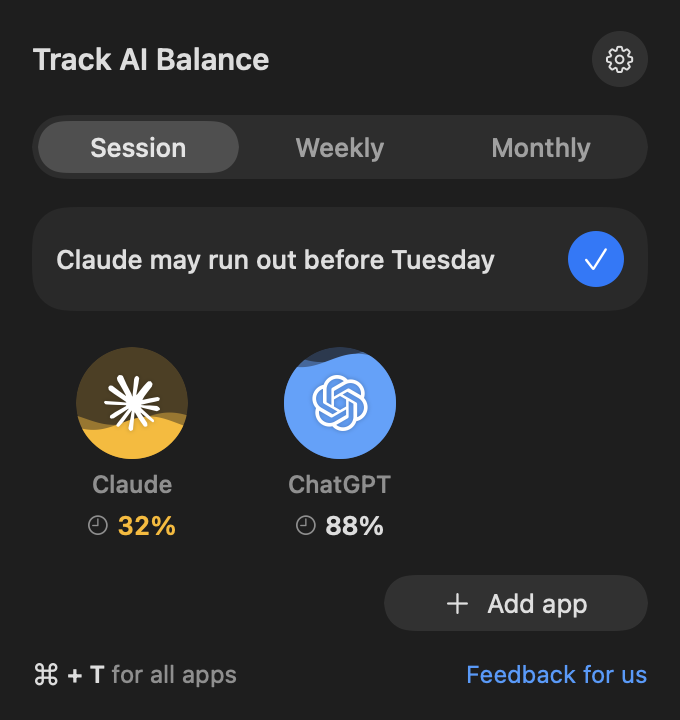
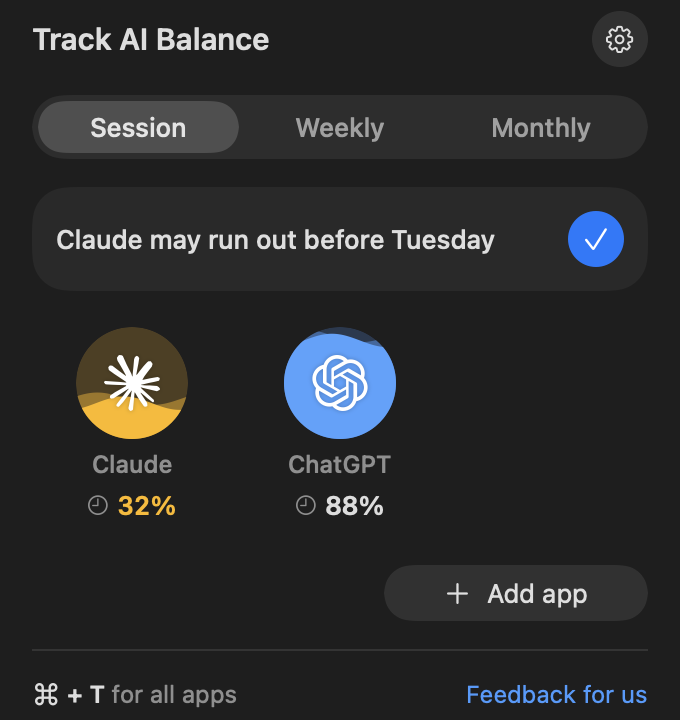
Design polish, version 0.2.4
A line check by Connected, a bigger plug on Connect buttons, double
chevrons between the alert states, a round Grok Bot mark, a quiet line
above the popover footer, and the Settings buttons back in the right
corner. The popover shows up to 9 apps in 3 rows before it scrolls, and
the third row is no longer cut off.

diff --git a/Sources/Tab/PopoverView.swift b/Sources/Tab/PopoverView.swift
@@ -98,7 +98,11 @@ struct PopoverView: View {
     /// Rows of tiles shown. Sized for the fullest tab, so switching tabs never resizes the popover
     /// (AK: a resize mid-switch made the title and tabs flicker). Past three rows, it scrolls.
     private var gridRows: Int { min(3, (max(store.mostTabApps, 1) + 2) / 3) }
-    static let rowHeight: CGFloat = 104
+    /// One row of tiles: circle, name and percent, plus the gap to the next row. Up to nine apps
+    /// show at once with no scrolling (AK, 2026-11-09); past that the grid scrolls, with a sliver
+    /// of the fourth row showing so it's clear there is more.
+    static let rowHeight: CGFloat = 109
+    private var gridHeight: CGFloat { CGFloat(gridRows) * Self.rowHeight + (store.mostTabApps > 9 ? 28 : 0) }
 
     private var main: some View {
         VStack(spacing: 14) {
@@ -138,7 +142,7 @@ struct PopoverView: View {
                         .font(.callout).foregroundStyle(Palette.subtitle)
                 }
                 .frame(maxWidth: .infinity)
-                .frame(height: CGFloat(gridRows) * Self.rowHeight)
+                .frame(height: gridHeight)
             } else {
                 Group {
                     if store.tabApps.count > 9 {
@@ -147,7 +151,7 @@ struct PopoverView: View {
                         grid
                     }
                 }
-                .frame(height: CGFloat(gridRows) * Self.rowHeight, alignment: .top)
+                .frame(height: gridHeight, alignment: .top)
                 // A tab that lists other apps swaps the whole grid at once (AK).
                 .id(store.tabApps)
                 .transition(.identity)
@@ -161,6 +165,9 @@ struct PopoverView: View {
                     .background(GeometryReader { g in Color.clear.onAppear { addFrame = g.frame(in: .named("popover")) }
                         .onChange(of: g.frame(in: .named("popover"))) { addFrame = $0 } })
             }
+
+            // A quiet line above the footer (AK, 2026-11-09), in the system separator color.
+            Divider()
 
             HStack {
                 ShortcutHint(before: "", after: "for all apps")

diff --git a/Sources/Tab/BrandLogos.swift b/Sources/Tab/BrandLogos.swift
@@ -81,19 +81,14 @@ extension BrandLogos {
         return whiteMark(art, size: fit(art.size, in: NSRect(x: 0, y: 0, width: 96, height: 96)).size)
     }
 
-    /// Grok Bot publishes no one-color logo, so this redraws its app icon as a white mark
-    /// (AK, 2026-11-09: the old round face didn't look like it). Measured from the icon: the
-    /// head is a big circle whose top edge arcs across the upper third, cut off by the icon's
-    /// rounded square, with two eyes tilted 55 degrees, right of center, the left one lower and
-    /// thicker. The eyes are cut out, like the other marks. Units are shares of the icon (y down).
+    /// Grok Bot publishes no one-color logo, so this draws one as a white mark: a round face
+    /// (AK, 2026-11-09: overall circular) with the two eyes placed as on its app icon, tilted
+    /// 55 degrees, right of center, the left one lower and thicker. The eyes are cut out, like
+    /// the other marks. Units are shares of the mark (y down).
     private static func grokBotMark() -> NSImage {
         let s: CGFloat = 96
         return NSImage(size: NSSize(width: s, height: s), flipped: true) { _ in
-            let tile = NSBezierPath(roundedRect: NSRect(x: 0, y: 0, width: s, height: s),
-                                    xRadius: s * Radius.tile, yRadius: s * Radius.tile)
-            tile.addClip()
-            let r = 0.574 * s
-            let head = NSBezierPath(ovalIn: NSRect(x: 0.423 * s - r, y: 0.749 * s - r, width: 2 * r, height: 2 * r))
+            let head = NSBezierPath(ovalIn: NSRect(x: 0, y: 0, width: s, height: s))
             head.windingRule = .evenOdd
             // Center x, center y, length and width of each eye.
             for (x, y, l, w) in [(0.484, 0.557, 0.34, 0.16), (0.747, 0.428, 0.31, 0.112)] as [(CGFloat, CGFloat, CGFloat, CGFloat)] {

diff --git a/Sources/Tab/Components.swift b/Sources/Tab/Components.swift
@@ -473,8 +473,10 @@ struct ConnectButton: View {
                 Text("Connect \(name)")
             } icon: {
                 PlugGlyph()
-                    .stroke(Palette.connectGlyph, style: StrokeStyle(lineWidth: 1.3, lineCap: .round, lineJoin: .round))
-                    .frame(width: 15, height: 15)
+                    // 17pt (AK, 2026-11-09: a touch bigger). The circle stays 28pt, since the
+                    // label box is fixed at 16pt and the plug just reaches past it.
+                    .stroke(Palette.connectGlyph, style: StrokeStyle(lineWidth: 1.4, lineCap: .round, lineJoin: .round))
+                    .frame(width: 17, height: 17)
                     .rotationEffect(.degrees(45))
             }
         }
@@ -494,9 +496,9 @@ func statusText(_ s: String) -> Text {
     return connectedLabel(word) + Text(String(s.dropFirst(word.count)))
 }
 
-/// "Connected" (or "2 accounts") with a small check before it, both in the brighter gray (AK).
+/// "Connected" (or "2 accounts") with a small line check before it (AK: a line icon, not filled), both in the brighter gray.
 func connectedLabel(_ word: String) -> Text {
-    (Text(Image(systemName: "checkmark.circle.fill")).font(.caption2) + Text(" " + word))
+    (Text(Image(systemName: "checkmark")).font(.caption2.weight(.medium)) + Text(" " + word))
         .foregroundColor(Palette.connectedText)
 }
 

diff --git a/Sources/Tab/SelfTest.swift b/Sources/Tab/SelfTest.swift
@@ -591,6 +591,14 @@ enum SelfTest {
         let greenShot = Store.preview(apps: ["claude": 62, "codex": 80, "cursor": 70])
         greenShot.snapshots["codex"] = ProviderSnapshot(limits: Store.useItLimits("codex"), fetchedAt: Date())
         shot(PopoverView(store: greenShot, openSettings: {}, openConnect: { _, _ in }), NSSize(width: 340, height: 490), "dev-popover-green")
+        // Many apps (AK, 2026-11-09): up to 9 show at once in 3 rows with no scrolling; past
+        // that, the grid stays 3 rows tall and scrolls.
+        let manyIDs = ["claude", "codex", "grokbot", "gemini", "copilot", "zed", "grok", "perplexity",
+                       "higgsfield", "elevenlabs", "suno", "manus"]
+        for n in [8, 12] {
+            let many = Store.preview(apps: Dictionary(uniqueKeysWithValues: manyIDs.prefix(n).enumerated().map { ($1, Double(30 + $0 * 6)) }))
+            shot(PopoverView(store: many, openSettings: {}, openConnect: { _, _ in }), NSSize(width: 340, height: n > 9 ? 640 : 600), "dev-popover-\(n)-apps")
+        }
         // Every official logo as TAB draws it, to check sizes side by side.
         let logoIDs = BrandLogos.all.keys.sorted()
         shot(LazyVGrid(columns: Array(repeating: GridItem(.fixed(70)), count: 6), spacing: 12) {

diff --git a/Sources/Tab/Settings.swift b/Sources/Tab/Settings.swift
@@ -157,7 +157,8 @@ struct SettingsView: View {
             }
 
             Section {
-                // Both buttons sit together in the middle of the section, 10pt apart (AK).
+                // Both buttons sit together in the right corner, 10pt apart (AK, 2026-11-09: back
+                // from centered).
                 HStack(spacing: 10) {
                     Spacer()
                     Button {
@@ -169,12 +170,11 @@ struct SettingsView: View {
                     .help("For support. It holds no sign-ins, prompts or work.")
                     // Red text like Remove (AK): deeper in Light Mode, lighter in Dark Mode, both readable.
                     Button { NSApp.terminate(nil) } label: { ButtonText("Quit TAB").foregroundStyle(Palette.redText) }.secondaryButton()
-                    Spacer()
                 }
+                // The feedback link sits in the right corner too, under Quit TAB (AK).
                 HStack {
                     Spacer()
                     FeedbackLink { feedback = true }
-                    Spacer()
                 }
             }
         }

diff --git a/Sources/Tab/Onboarding.swift b/Sources/Tab/Onboarding.swift
@@ -202,7 +202,7 @@ private struct HowStep: View {
             card(2, "TAB checks how much each app has left") {
                 HStack(spacing: 10) {
                     LiquidTile(pct: 46, level: .ok, glyph: store.glyph(store.demoID), symbol: store.symbol(store.demoID), size: 48)
-                    Image(systemName: "arrow.right").foregroundStyle(Palette.subtitle)
+                    Image(systemName: "chevron.right.2").foregroundStyle(Palette.subtitle)
                     Text("46%").font(.title2.bold()).foregroundStyle(.primary)
                 }
             }

diff --git a/Sources/Tab/AlertSlider.swift b/Sources/Tab/AlertSlider.swift
@@ -66,7 +66,8 @@ struct LevelStates: View {
     }
 
     private var arrow: some View {
-        Image(systemName: "arrow.right").font(.body).foregroundStyle(Palette.subtitle).accessibilityHidden(true)
+        // Two chevrons with no line, a lighter step forward (AK, 2026-11-09).
+        Image(systemName: "chevron.right.2").font(.body).foregroundStyle(Palette.subtitle).accessibilityHidden(true)
     }
 
     private func state<V: View>(_ label: String, _ detail: String, @ViewBuilder _ v: () -> V) -> some View {

diff --git a/README.md b/README.md
@@ -21,7 +21,7 @@ When several apps need you at once, red comes first, then yellow, then green. Ap
 Open Terminal (press ⌘ Space, type Terminal, press Return), paste this line, press Return, then type `y`:
 
 ```bash
-curl -fsSL https://raw.githubusercontent.com/araje-bot/TAB-Track-AI-Balance/v0.2.3/install.sh | bash
+curl -fsSL https://raw.githubusercontent.com/araje-bot/TAB-Track-AI-Balance/v0.2.4/install.sh | bash
 ```
 
 TAB opens with a short welcome and shows the AI apps it found. It needs macOS 13 or later, on Apple silicon or Intel.
@@ -57,7 +57,7 @@ TAB used to be called TUM. If you had TUM, the installer replaces it, and TAB br
 ## Uninstall
 
 ```bash
-curl -fsSL https://raw.githubusercontent.com/araje-bot/TAB-Track-AI-Balance/v0.2.3/uninstall.sh | bash
+curl -fsSL https://raw.githubusercontent.com/araje-bot/TAB-Track-AI-Balance/v0.2.4/uninstall.sh | bash
 ```
 
 Or drag TAB from Applications to the Trash.
